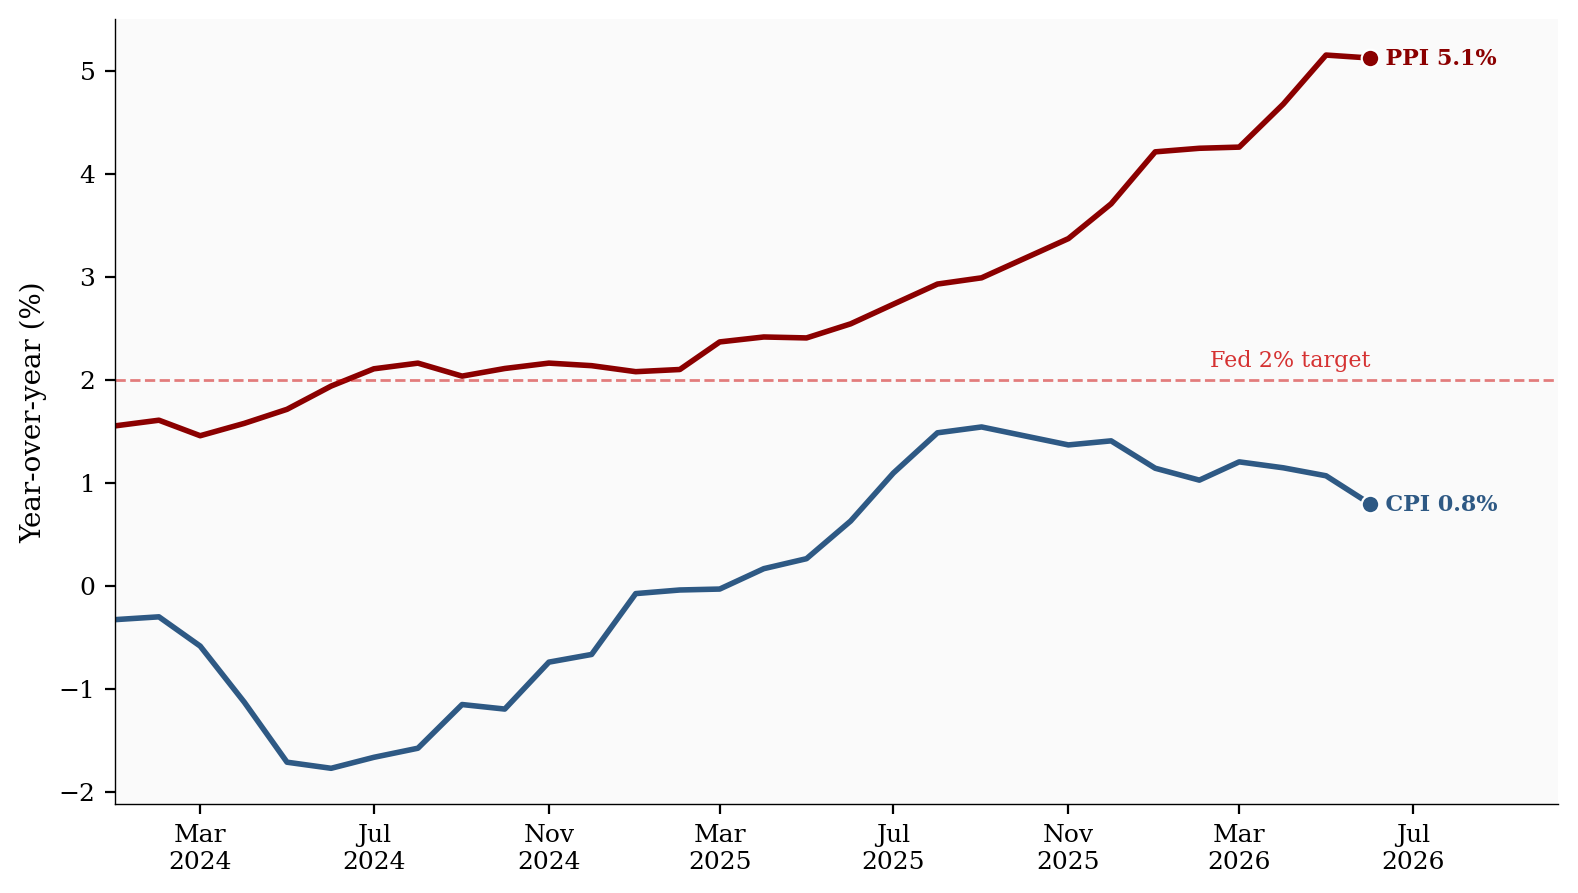
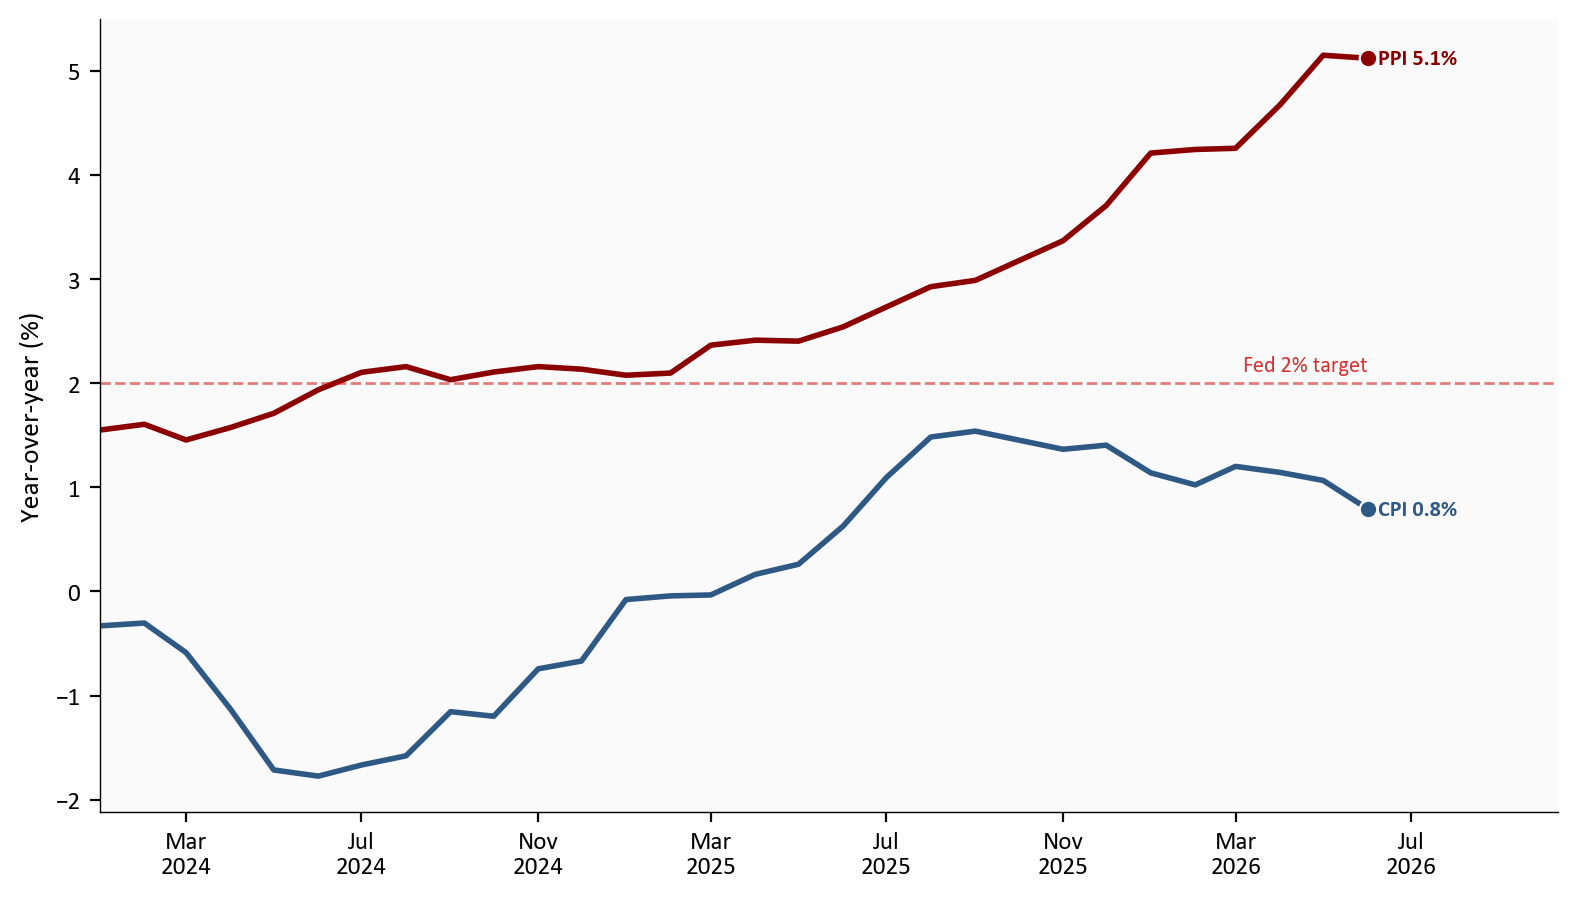
Use Calibri house font on June 2026 PPI post and refresh freeze.
Also document publish verify steps (gh) and Calibri preference in README.

diff --git a/README.md b/README.md
@@ -104,19 +104,34 @@ The cleanup tool never removes `.venv`, `_freeze`, or post data.
 1. Create and work on a local branch: `git checkout -b post/YYYY-MM-DD-slug`.
 2. Remove `draft: true` and move the folder from `posts\drafts\YYYY-MM-DD-slug` to `posts\YYYY-MM-DD-slug`.
 3. Run `blog-final-review` and ensure `stats\final_review_status.json` has `"status": "PASS"`.
-4. Run the repository audit and local release gate on the published post path:
+4. Re-render so `_freeze/` is current: `quarto render posts/YYYY-MM-DD-slug/index.qmd --to html`
+   (HTML preview is under `_site/`; do not commit `_site/`.)
+5. Run the repository audit and local release gate on the published post path:
 
 ```bash
 python tools/audit_repository.py
+# Windows:
+.\scripts\check_post.ps1 posts\YYYY-MM-DD-slug\index.qmd
+# or bash:
 bash scripts/local_release_gate.sh posts/YYYY-MM-DD-slug/index.qmd
 ```
 
-5. Commit changes on the post branch.
-6. Merge locally into `main` only after the gate passes (prevents failed deploys on `main`).
-7. Push `main`; GitHub Actions publishes to `gh-pages`.
+6. Commit **only** the post folder and its freeze cache (leave unrelated dirty files alone).
+7. Merge locally into `main` only after the gate passes (prevents failed deploys on `main`).
+8. Push `main`; GitHub Actions publishes to `gh-pages`.
+9. Verify with GitHub CLI when available:
 
 ```bash
-git add posts/YYYY-MM-DD-slug _freeze
-git commit -m "Add post: post title"
-git push
+gh run list --workflow=publish.yml --limit 3
+gh run watch <run-id> --exit-status
 ```
+
+Live URL pattern: `https://gilboa.blog/posts/YYYY-MM-DD-slug/`
+
+```bash
+git add posts/YYYY-MM-DD-slug _freeze/posts/YYYY-MM-DD-slug
+git commit -m "Add post: post title"
+git push origin main
+```
+
+Chart house typeface is **Calibri** (see blog-viz-specialist / CLAUDE setup template).
